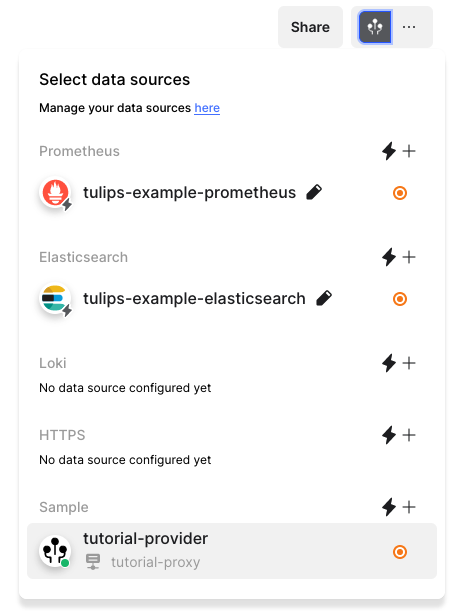
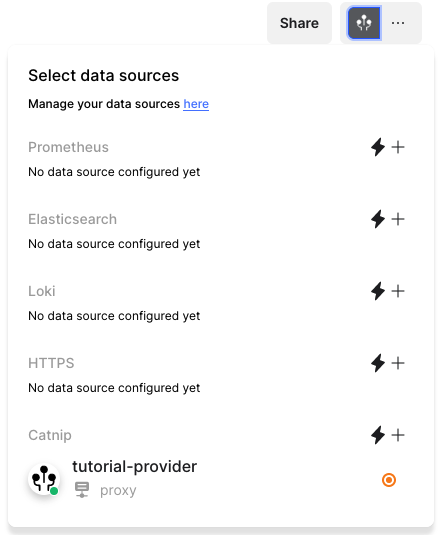
Finish touches

diff --git a/providers/tutorial-create-a-provider.md b/providers/tutorial-create-a-provider.md
@@ -15,6 +15,9 @@ This tutorial focuses on writing the provider in Rust, to be able to use the
 convenience macros from Fiberplane Plugin Development Kit (PDK).
 Provider Development Kits for other languages are coming later.
 
+All the code for the provider created through this tutorial is available
+on [Github](https://github.com/fiberplane/catnip-provider)
+
 ## Prepare the relevant resources
 
 ### Install Rust and the Web Assembly tools
@@ -220,7 +223,8 @@ Finally, ignore all `.wasm` files from the repository, to avoid accidentally pus
 the providers you will build:
 
 ```gitignore
-# In .gitignore, add a line
+# In .gitignore, add lines
+/target/
 *.wasm
 ```
 
@@ -447,13 +451,13 @@ First, we need to add `serde_json` as a dependency as we will be working with a 
 # In Cargo.toml
 [dependencies]
 serde_json = "1"
-serde_aux = "4.1" # serde_aux provides helpers for JSON deserialization
+serde-aux = "4.1" # serde_aux provides helpers for JSON deserialization
 ```
 
 Then we add the data types that match the API entries we want to work with, and build a data-model that's relevant for the query
 
 ```rust
-use serde_aux::deserialize_number_from_string;
+use serde_aux::field_attributes::deserialize_number_from_string;
 
 #[derive(Deserialize, Serialize, Debug, Clone)]
 struct User {
@@ -463,7 +467,7 @@ struct User {
     email: String,
     address: Address,
     phone: String,
-    webside: String,
+    website: String,
     company: Company
 }
 
@@ -481,12 +485,12 @@ struct Address {
 struct GeoLocation {
     #[serde(deserialize_with = "deserialize_number_from_string", rename = "lat")]
     latitude: f64,
-    #[serde(deserialize_with = "deserialize_number_from_string", rename = "lon")]
+    #[serde(deserialize_with = "deserialize_number_from_string", rename = "lng")]
     longitude: f64
 }
 
 #[derive(Deserialize, Serialize, Debug, Clone)]
-#[serde(rename_all = camelCase)]
+#[serde(rename_all = "camelCase")]
 struct Company {
     name: String,
     catch_phrase: String,
@@ -531,11 +535,15 @@ fn distance_between(origin: GeoLocation, destination: GeoLocation) -> f64 {
     ((destination.longitude - origin.longitude).powi(2) + (destination.latitude - origin.latitude).powi(2)).sqrt()
 }
 
-fn closest_user(target: GeoLocation, users: &[User]) -> Option<(f64, User)> {
+pub fn closest_user(target: GeoLocation, users: &[User]) -> Option<(f64, User)> {
     users
         .iter()
-        .map(|user| (distance_between(user.geocode, target), user.clone()))
-        .min_by(|(distance_l, _), (distance_r, _)| distance_l.cmp(distance_r))
+        .map(|user| (distance_between(user.address.geocode, target), user.clone()))
+        .min_by(|(distance_l, _), (distance_r, _)| {
+            distance_l
+                .partial_cmp(distance_r)
+                .unwrap_or(std::cmp::Ordering::Equal)
+        })
 }
 ```
 
@@ -594,7 +602,7 @@ We now have all the building blocks to implement our query:
 ```rust
 async fn fetch_closest_user(config: &CatnipConfig, target: GeoLocation) -> Result<Option<(f64, User)>> {
     let users = fetch_users(config).await?;
-    Ok(closest_user(target, &users).cloned())
+    Ok(closest_user(target, &users).clone())
 }
 ```
     
@@ -654,32 +662,48 @@ long as we return a `fiberplane_pdk::prelude::Cells` that is transformed to a
     
 
 ```rust
-async fn find_closest_dispenser(query_data: CatnipClosestQuery, config: CatnipConfig) -> Result<Blob> {
-    let response = fetch_closest_user(&config, GeoLocation { latitude: query_data.latitude, longitude: query_data.longitude }).await?;
+async fn closest_dispenser_query_handler(query_data: CatnipClosestQuery, config: CatnipConfig) -> Result<Blob> {
+    let response = fetch_closest_user(
+        &config,
+        GeoLocation {
+            latitude: query_data
+                .latitude
+                .parse()
+                .map_err(|e| Error::Deserialization {
+                    message: format!("latitude is an invalid number: {e}"),
+                })?,
+            longitude: query_data
+                .longitude
+                .parse()
+                .map_err(|e| Error::Deserialization {
+                    message: format!("longitude is an invalid number: {e}"),
+                })?,
+        },
+    )
+    .await?;
     let cells = match response {
         None => {
-            vec![Cell::Text(TextCell {
-                id: "result".to_owned(),
-                content: "No dispenser was found!".to_string(),
-                formatting: Formatting::default(),
-                read_only: None,
-            })]
-        },
-        Ok((distance, dispenser)) => {
-            vec![Cell::Text(TextCell {
-                id: "result".to_owned(),
-                content: format!("The closest dispenser to you ({query_data.latitude}, {query_data.longitude}) is\n{} ({})\n\t{} {}\n\t{} {}",
+            vec![Cell::Text(TextCell::builder()
+                .id("result".to_owned())
+                .content("No dispenser was found!".to_string())
+                .formatting(Formatting::default())
+            .build())]
+        }
+        Some((distance, dispenser)) => {
+            vec![Cell::Text(TextCell::builder()
+                .id("result".to_owned())
+                .content(format!("The closest dispenser to you ({}, {}) is\n{} ({})\n\t{} {}\n\t{} {}",
+                    query_data.latitude,
+                    query_data.longitude,
                     dispenser.name,
                     distance,
                     dispenser.address.street,
                     dispenser.address.suite,
                     dispenser.address.city,
                     dispenser.address.zipcode
-                ),
-                formatting: Formatting::default(),
-                read_only: None,
-            })]
-        
+                ))
+                .formatting(Formatting::default())
+            .build())]
         }
     };
 
@@ -700,7 +724,8 @@ function.
 pdk_query_types! {
     CLOSEST_DISPENSER_QUERY => {
         label: "Catnip: find closest dispenser",
-        handler: find_closest_dispenser(CatnipClosestQuery, CatnipConfig),
+        handler: closest_dispenser_query_handler(CatnipClosestQuery, CatnipConfig),
+	async: true,
         supported_mime_types: [CELLS_MIME_TYPE]
     },
     STATUS_QUERY_TYPE => {
@@ -715,12 +740,14 @@ pdk_query_types! {
 You should be able to run the query from Studio now! To test it
 
 - Open `studio.fiberplane.com` and switch to your personal workspace
-- Add the data source for `catnip_provider` from the proxy to your workspace.
+- Add the data source for `catnip` from the proxy to your workspace.
 - Create a new notebook in your workspace
 - Try typing `/catnip` in a cell, and select your `Catnip: find closest dispenser` action
+![The slash command menu has catnip entries now](Tutorial/8 Catnip Slash Command.png)
 - Fill the latitude and longitude, and run the query
 
 The results should appear in a new cell in the notebook!
+![The provider cell in the notebook has results](Tutorial/9 Catnip cell called.png)
 
 ## Conclusion
 

diff --git a/providers/tutorial-create-a-provider-advanced.md b/providers/tutorial-create-a-provider-advanced.md
@@ -10,33 +10,22 @@ This builds on the [Creating a provider tutorial](doc:creating-a-provider), and 
 
 ## Implementing Status query
 
-Advanced page
+> Coming soon!
 
 ## Implementing Suggestions query
 
-Advanced page
+> Coming soon!
 
 ## Adding a query that returns more than just cells
 
-### For an _advanced_ tutorial later
-On top of choosing the name, we will also choose the inner data model of
-"Closest Dispenser" response. Here the goal is to choose a structure that is
-easy to manipulate in Rust; we will be using this structure as the basis to
-create cells in a notebook.
+> Coming soon!
 
-```rust
-pub const CATNIP_CLOSEST_MIME_TYPE: &str = "application/vnd.fiberplane.providers.catnip.closest";
+## Adding a query that returns a Graph or a Log Cell
 
-// We are using the `ProviderData` helper macro to do the heavy work
-#[derive(Deserialize, ProviderData, Serialize, Debug, Clone)]
-#[pdk(mime_type = CATNIP_CLOSEST_MIME_TYPE)]
-struct ClosestDispenserData {
-    target: GeoLocation,
-    distance: Option<f64>,
-    user: Option<User>
-}
-```
+### Implementing a handler for `create_cells`
 
-- Implementing the handler for `create_cells`
-- Implementing the handler for `extract_data`
+> Coming soon!
 
+### Implementing a handler for `extract_data`
+
+> Coming soon!
